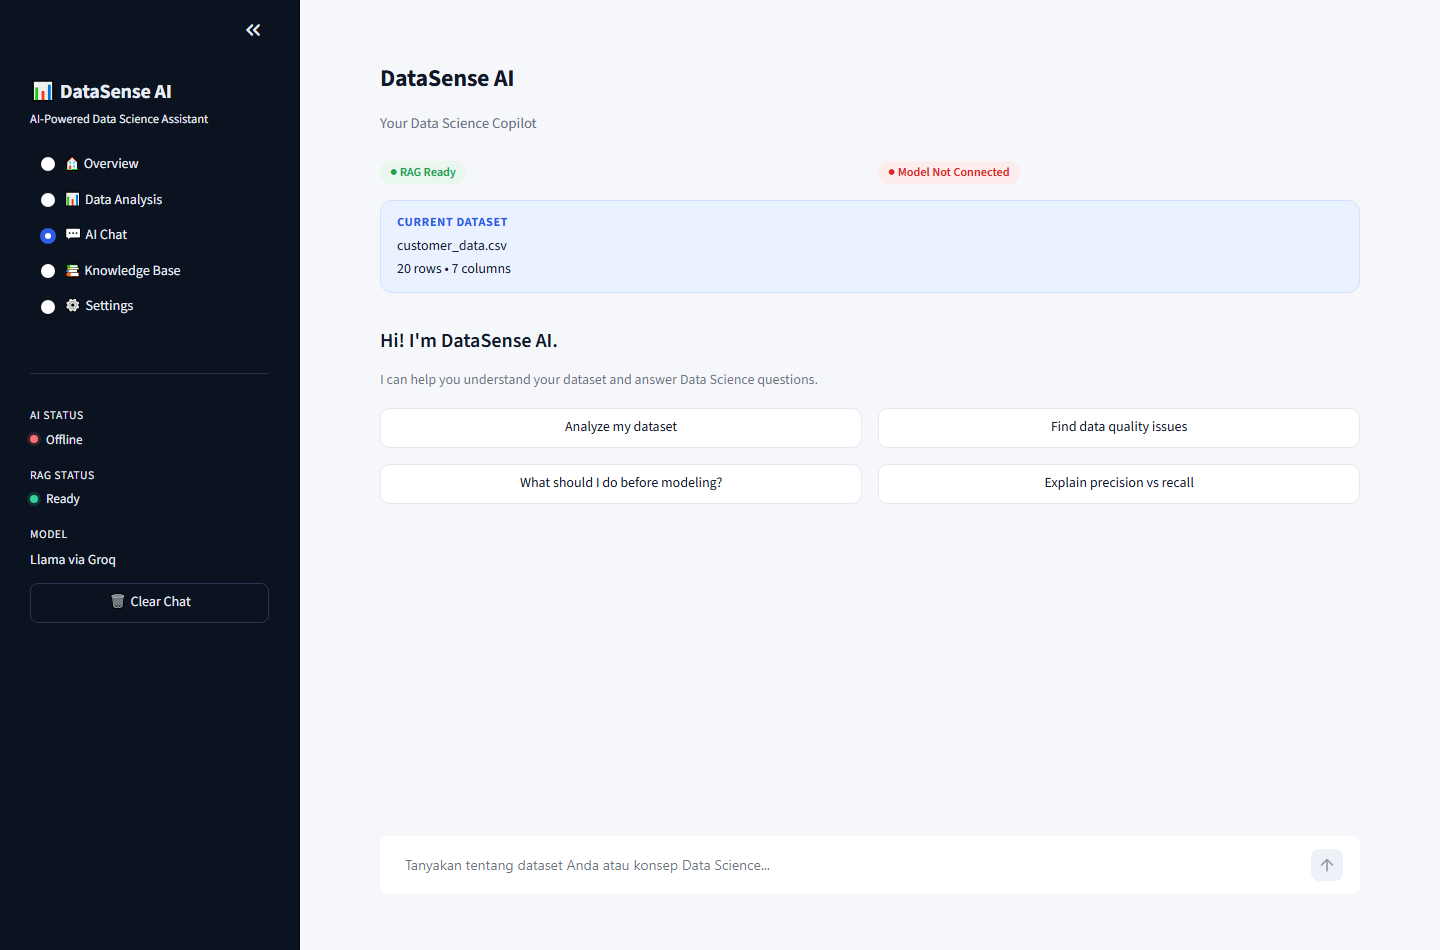
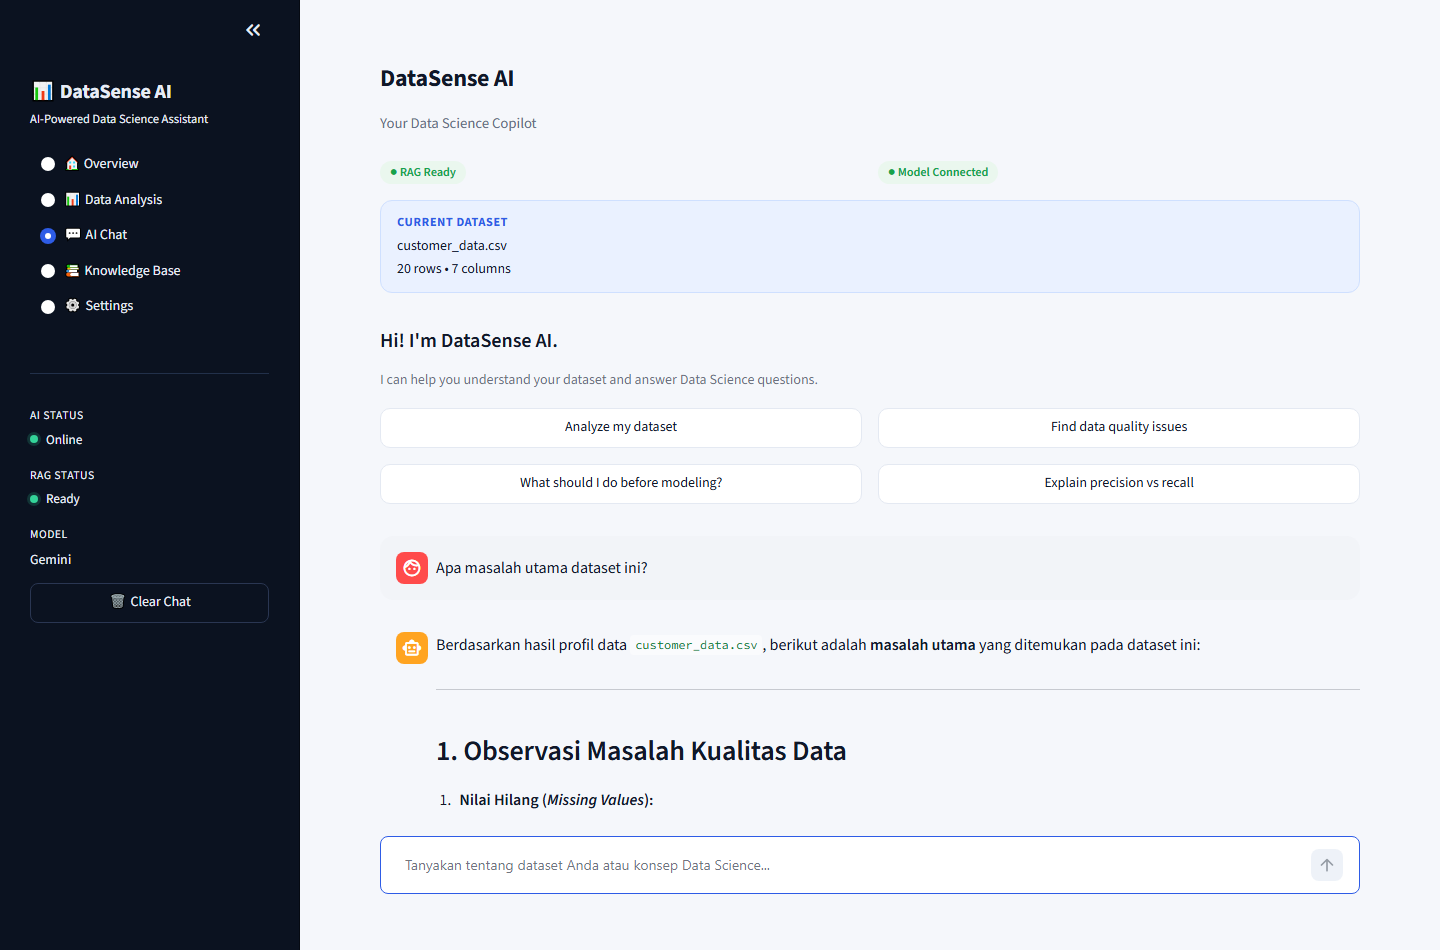
feat: add Google Gemini as a second LLM provider alongside Groq
Adds LLM_PROVIDER=groq|gemini (auto-detected from whichever API key is
set if left blank) so the assistant works with either provider via
LangChain (ChatGroq / ChatGoogleGenerativeAI). Also fixes a real bug
found while testing against a live Gemini key: gemini-3.6-flash reasons
internally before answering, and that reasoning consumes the 512-token
budget, producing truncated/garbled replies (finish_reason=MAX_TOKENS).
Gemini now uses a 2048-token budget, verified against live API calls
through the full RAG + chat pipeline.

diff --git a/src/llm.py b/src/llm.py
@@ -1,18 +1,37 @@
-"""LLM integration: Llama models served via the Groq API, through LangChain.
+"""LLM integration: pluggable between Llama models via Groq and Google Gemini,
+both through LangChain.
 
 Configuration (temperature / max tokens / top_p) is intentionally fixed to
 sane, documented defaults rather than exposed as freeform user controls -
 Settings page only *displays* these values (see README, section 15).
+
+Provider selection (see .env.example):
+- LLM_PROVIDER=groq|gemini picks explicitly.
+- If unset, the provider is auto-detected from whichever API key is present
+  (GROQ_API_KEY -> groq, GEMINI_API_KEY/GOOGLE_API_KEY -> gemini). Groq wins
+  if both are set. Defaults to "groq" if neither is configured yet, so the
+  Settings page has something sensible to display before setup.
 """
 
 from __future__ import annotations
 
 import os
 
-DEFAULT_MODEL = "llama-3.3-70b-versatile"
+PROVIDER_GROQ = "groq"
+PROVIDER_GEMINI = "gemini"
+
+DEFAULT_GROQ_MODEL = "llama-3.3-70b-versatile"
+DEFAULT_GEMINI_MODEL = "gemini-3.6-flash"
+
 DEFAULT_TEMPERATURE = 0.3
 DEFAULT_MAX_TOKENS = 512
 DEFAULT_TOP_P = 0.9
+
+# Gemini's current "flash" models reason internally before answering, and
+# that reasoning is billed against max_output_tokens. At 512 the budget is
+# often exhausted mid-thought, producing a truncated/garbled answer (finish
+# reason MAX_TOKENS). 2048 leaves enough room for reasoning + a full answer.
+GEMINI_MAX_TOKENS = 2048
 
 
 class LLMConfigError(Exception):
@@ -23,15 +42,62 @@ class LLMResponseError(Exception):
     """Raised when the LLM call itself fails."""
 
 
+def get_provider() -> str:
+    explicit = os.getenv("LLM_PROVIDER", "").strip().lower()
+    if explicit in (PROVIDER_GROQ, PROVIDER_GEMINI):
+        return explicit
+    if os.getenv("GROQ_API_KEY"):
+        return PROVIDER_GROQ
+    if os.getenv("GEMINI_API_KEY") or os.getenv("GOOGLE_API_KEY"):
+        return PROVIDER_GEMINI
+    return PROVIDER_GROQ
+
+
 def get_model_name() -> str:
-    return os.getenv("GROQ_MODEL", DEFAULT_MODEL)
+    if get_provider() == PROVIDER_GEMINI:
+        return os.getenv("GEMINI_MODEL", DEFAULT_GEMINI_MODEL)
+    return os.getenv("GROQ_MODEL", DEFAULT_GROQ_MODEL)
+
+
+def get_provider_display_name() -> str:
+    """Short label for the sidebar, e.g. 'Gemini' or 'Llama via Groq'."""
+    return "Gemini" if get_provider() == PROVIDER_GEMINI else "Llama via Groq"
+
+
+def get_max_tokens() -> int:
+    return GEMINI_MAX_TOKENS if get_provider() == PROVIDER_GEMINI else DEFAULT_MAX_TOKENS
+
+
+def get_provider_label() -> str:
+    """Longer label for the Settings page, e.g. 'gemini-2.5-flash (Gemini)'."""
+    return f"{get_model_name()} ({get_provider_display_name()})"
 
 
 def is_configured() -> bool:
+    if get_provider() == PROVIDER_GEMINI:
+        return bool(os.getenv("GEMINI_API_KEY") or os.getenv("GOOGLE_API_KEY"))
     return bool(os.getenv("GROQ_API_KEY"))
 
 
 def get_llm():
+    provider = get_provider()
+
+    if provider == PROVIDER_GEMINI:
+        from langchain_google_genai import ChatGoogleGenerativeAI
+
+        api_key = os.getenv("GEMINI_API_KEY") or os.getenv("GOOGLE_API_KEY")
+        if not api_key:
+            raise LLMConfigError(
+                "GEMINI_API_KEY belum diatur. Tambahkan API key pada file .env (lihat .env.example)."
+            )
+        return ChatGoogleGenerativeAI(
+            google_api_key=api_key,
+            model=get_model_name(),
+            temperature=DEFAULT_TEMPERATURE,
+            max_output_tokens=get_max_tokens(),
+            top_p=DEFAULT_TOP_P,
+        )
+
     from langchain_groq import ChatGroq
 
     api_key = os.getenv("GROQ_API_KEY")
@@ -43,7 +109,7 @@ def get_llm():
         api_key=api_key,
         model=get_model_name(),
         temperature=DEFAULT_TEMPERATURE,
-        max_tokens=DEFAULT_MAX_TOKENS,
+        max_tokens=get_max_tokens(),
         model_kwargs={"top_p": DEFAULT_TOP_P},
     )
 

diff --git a/app.py b/app.py
@@ -2,7 +2,8 @@
 
 Streamlit entry point. Wires together dataset profiling (Pandas), a RAG
 knowledge base (LangChain + FAISS), and an LLM chat assistant (Llama via
-Groq) behind a single-page navigation shell.
+Groq, or Google Gemini - see src/llm.py) behind a single-page navigation
+shell.
 """
 
 from __future__ import annotations
@@ -106,7 +107,7 @@ def render_sidebar() -> None:
         st.markdown(
             '<div style="font-size:0.72rem;color:#8592AD;text-transform:uppercase;'
             'letter-spacing:0.05em;margin:10px 0 4px 0;">Model</div>'
-            '<div style="font-size:0.86rem;color:#E7ECF6;margin-bottom:0.8rem;">Llama via Groq</div>',
+            f'<div style="font-size:0.86rem;color:#E7ECF6;margin-bottom:0.8rem;">{llm.get_provider_display_name()}</div>',
             unsafe_allow_html=True,
         )
 
@@ -402,9 +403,9 @@ def render_settings() -> None:
 
     st.markdown("#### AI Configuration")
     rows = [
-        ("Model", f"{llm.get_model_name()} (Llama via Groq)"),
+        ("Model", llm.get_provider_label()),
         ("Temperature", str(llm.DEFAULT_TEMPERATURE)),
-        ("Max Output Tokens", str(llm.DEFAULT_MAX_TOKENS)),
+        ("Max Output Tokens", str(llm.get_max_tokens())),
         ("Top P", str(llm.DEFAULT_TOP_P)),
         ("RAG", "Enabled" if vectorstore is not None else "Unavailable"),
         ("Vector Database", "FAISS"),

diff --git a/README.md b/README.md
@@ -61,7 +61,7 @@ understanding, not prediction.
 User question ─▶ Dataset profile context (if a dataset is loaded)
               ─▶ RAG-retrieved knowledge base context (top-k chunks)
               ─▶ System prompt (role + rules) + conversation history
-              ─▶ ChatGroq (Llama model) ─▶ Answer
+              ─▶ ChatGroq (Llama) or ChatGoogleGenerativeAI (Gemini), picked via LLM_PROVIDER ─▶ Answer
 ```
 
 Both contexts are always attached; the system prompt instructs the model to prioritize the dataset
@@ -111,12 +111,22 @@ Defined in [src/prompts.py](src/prompts.py):
 
 ## Model Configuration
 
+DataSense AI supports two interchangeable LLM providers, selected via `LLM_PROVIDER` in `.env`
+(see [src/llm.py](src/llm.py)). If `LLM_PROVIDER` is left blank, the provider is auto-detected from
+whichever API key is present (Groq takes priority if both are set).
+
 | Parameter | Value | Purpose |
 |---|---|---|
-| Model | `llama-3.3-70b-versatile` (via `GROQ_MODEL`) | Llama model served by Groq |
+| Model (Groq) | `llama-3.3-70b-versatile` (via `GROQ_MODEL`) | Llama model served by Groq |
+| Model (Gemini) | `gemini-3.6-flash` (via `GEMINI_MODEL`) | Google Gemini model |
 | Temperature | `0.3` | Controls response creativity/randomness |
-| Max Output Tokens | `512` | Controls maximum response length |
+| Max Output Tokens | `512` (Groq) / `2048` (Gemini) | Controls maximum response length |
 | Top P | `0.9` | Controls nucleus sampling |
+
+Gemini's current "flash" models reason internally before answering, and that reasoning is billed
+against `max_output_tokens`; at 512 the budget was consistently exhausted mid-thought (`finish_reason:
+MAX_TOKENS`, verified while testing), producing a truncated, garbled answer. 2048 was the smallest
+value that reliably left room for both the reasoning and a complete answer.
 
 These are fixed, documented defaults shown read-only on the Settings page — the API key can never be
 changed or viewed from the UI.
@@ -125,7 +135,7 @@ changed or viewed from the UI.
 
 - **UI**: Streamlit, custom CSS
 - **Data**: Pandas
-- **LLM**: Groq API (Llama models), via `langchain-groq`
+- **LLM**: Groq API (Llama models) via `langchain-groq`, or Google Gemini via `langchain-google-genai`
 - **RAG**: LangChain (`langchain`, `langchain-community`), PyPDF, FAISS, Sentence-Transformers
 - **Charts**: Plotly
 
@@ -165,12 +175,15 @@ pip install -r requirements.txt
 
 ## Environment Variables
 
-Copy `.env.example` to `.env` and fill in your own key — never commit `.env`.
+Copy `.env.example` to `.env` and fill in the provider you have a key for — never commit `.env`.
 
 | Variable | Required | Description |
 |---|---|---|
-| `GROQ_API_KEY` | Yes | API key from [console.groq.com](https://console.groq.com/keys) |
+| `LLM_PROVIDER` | No | `groq` or `gemini`. Auto-detected from whichever key below is set if left blank. |
+| `GROQ_API_KEY` | If using Groq | API key from [console.groq.com](https://console.groq.com/keys) |
 | `GROQ_MODEL` | No | Overrides the default Llama model (`llama-3.3-70b-versatile`) |
+| `GEMINI_API_KEY` | If using Gemini | API key from [aistudio.google.com/apikey](https://aistudio.google.com/apikey) |
+| `GEMINI_MODEL` | No | Overrides the default Gemini model (`gemini-3.6-flash`) |
 
 ## Running Locally
 
